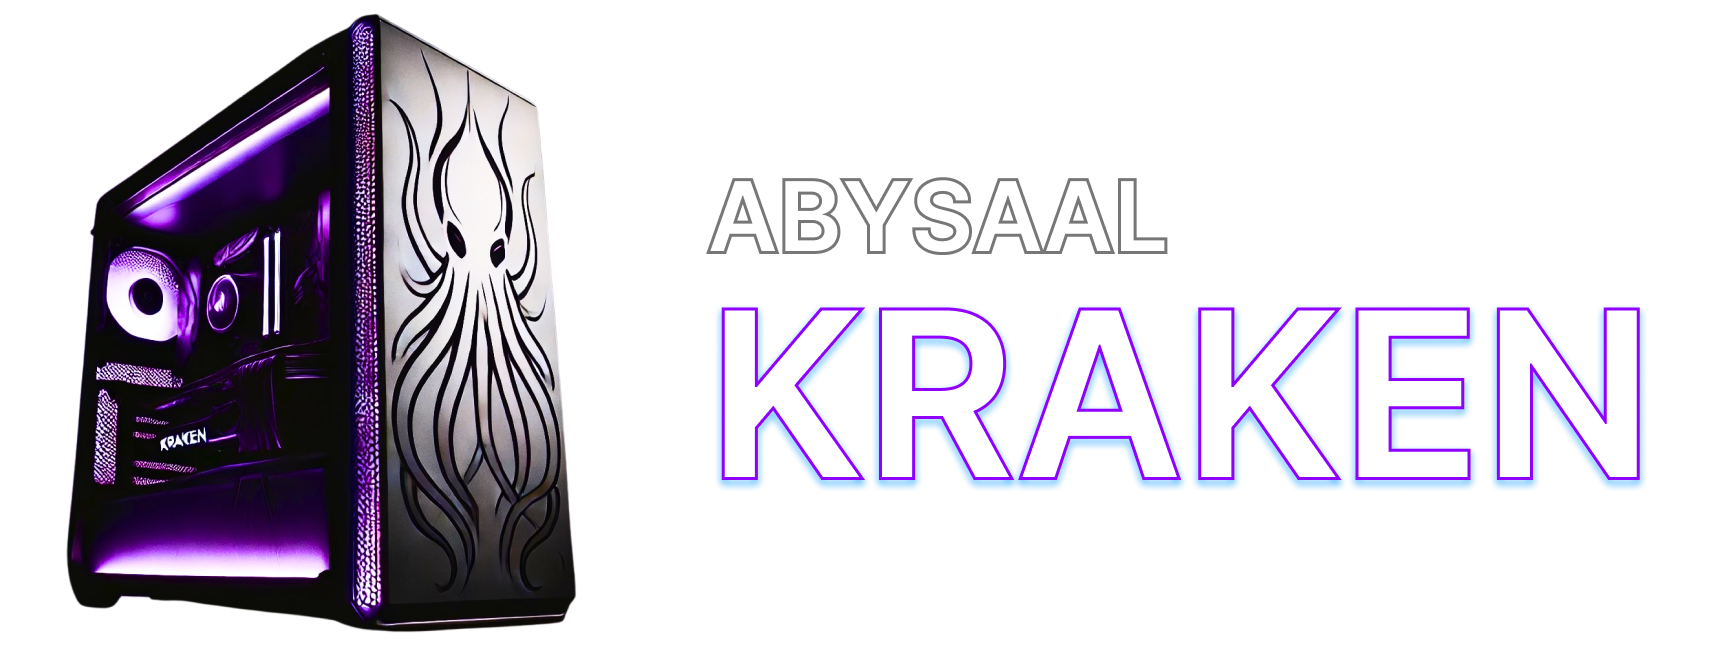
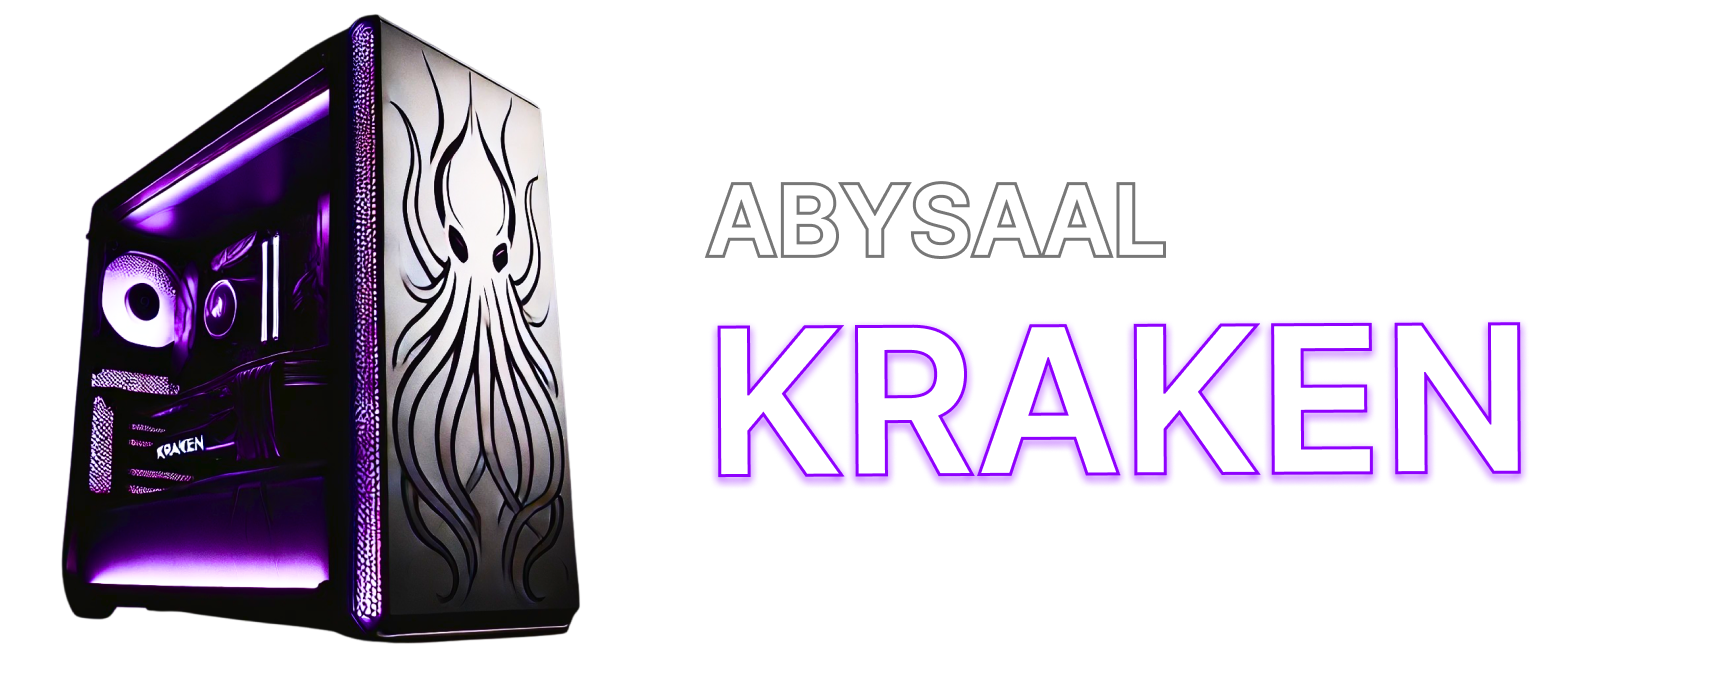
Pequenas mudanças não definitiva

diff --git a/octo/src/Componentes/CompCss/Login.css b/octo/src/Componentes/CompCss/Login.css
@@ -1,103 +1,58 @@
-.modal-overlay {
-  position: fixed;
-  top: 0;
-  left: 0;
-  right: 0;
-  bottom: 0;
-  background: rgba(0, 0, 0, 0.5);
-  display: flex;
-  align-items: center;
-  justify-content: center;
-   z-index: 9999;
-}
-
-.modal-content {
-  position: absolute;
-  background: rgba(110, 29, 174, 0.28);
-  color: white;
+.kraken-page {
+  background-color: #000;
+  color: #fff;
   padding: 20px;
-  border-radius: 30px;
-  height: 450px;
-  width: 410px;
-  box-shadow: 0 2px 10px rgba(0, 0, 0, 0.1);
-  display: flex;
-  flex-direction: column;
-  align-items: center;
+  font-family: Arial, sans-serif;
+}
+
+/* Banner */
+.banner {
   text-align: center;
-  z-index: 2;
+  color: #a260ff;
 }
 
-.close-button {
-  position: absolute;
-  top: 10px;  
-  right: 10px;  
-  background: none;
-  border: none;
-  font-size: 24px;
-  color: white;
-  cursor: pointer;
-}
-
-.logo {
-  max-width: 100%;
-  height: auto;
-  margin-bottom: 20px; /* Adicione um espaço abaixo da logo */
-}
-
-.modal-content form {
-  width: 100%; 
-}
-
-.modal-content form div {
-  margin: 10px 0; 
-}
-
-.login-button {
-  margin-top: 10px; 
-  padding: 10px 20px;
-  border: none;
-  background-color: rgba(0, 52, 101, 1);
-  color: white;
-  border-radius: 8px;
-  cursor: pointer;
-  width: 250px; 
-  height: 40px;
-}
-
-.form-group {
-  display: flex;
-  flex-direction: column;
-  align-items: flex-start;
-  margin-bottom: 15px;
-}
-
-.form-group label {
-  margin-bottom: 5px; 
-  font-weight: bold;
-}
-
-.form-group input {
+.banner img {
   width: 100%;
-  max-width: 390px; 
-  padding: 10px;
-  border: 1px solid #ccc;
-  border-radius: 5px;
+  max-width: 500px; /* Limite a largura para telas maiores */
+  height: auto;
+  margin-bottom: 20px;
 }
 
-.link-forgot, .link-register {
-  color: white;
-  text-decoration: none;
-  display: block; 
-  margin-top: 10px; 
-  text-align: left; 
+/* Seções de especificações */
+.specifications {
+  display: flex;
+  justify-content: space-around;
+  margin-top: 20px;
+  color: #a260ff;
 }
-.link-register {
-  color: white;
-  text-decoration: none;
-  display: block; 
-  margin-top: 10px; 
-  text-align: center; 
+
+.spec-column {
+  flex: 1;
+  margin: 10px;
+  min-width: 150px; /* Define um tamanho mínimo para boa responsividade */
 }
-.link-forgot:hover, .link-register:hover {
-  text-decoration: underline;
+
+/* Descrição */
+.description {
+  text-align: center;
+  margin-top: 20px;
+  padding: 0 10px;
+}
+
+.description h2 {
+  color: #a260ff;
+  margin-bottom: 10px;
+}
+
+/* Responsividade */
+@media (max-width: 768px) {
+  .specifications {
+    flex-direction: column;
+    align-items: center;
+  }
+
+  .spec-column {
+    width: 100%;
+    text-align: center;
+  }
 }

diff --git a/octo/src/Componentes/CompCss/HomeSlider.css b/octo/src/Componentes/CompCss/HomeSlider.css
@@ -21,7 +21,7 @@ body {
 /* Swiper */
 .swiper {
     width: 1500px; /* Define a largura para 1500 pixels */
-    height: 640px; /* Define a altura para 640 pixels */
+    height: auto; 
     overflow: hidden; /* Garante que não vaze conteúdo */
 }
   
@@ -38,28 +38,29 @@ body {
 }
 
 .swiper-slide img {
-    width: auto; /* Faz a imagem ocupar toda a largura do slide */
-    height: 100%; /* Faz a imagem ocupar toda a altura do slide */
+    width: auto;
+    height: auto;
     object-fit: cover; /* Cobre o slide sem distorcer */
 }
 
 /* Media Queries para responsividade */
-@media (max-width: 1500px) {
+@media (max-width: 768px) {
     .swiper {
-        width: 100%; /* Ajusta a largura para 100% em telas menores */
-        height: auto; /* Mantém a proporção da altura */
+        width: 100%; /* Largura máxima do contêiner */
+        height: auto; /* Altura automática para manter proporção */
     }
 }
 
+/* Ajuste para telas pequenas */
 @media (max-width: 768px) {
     .swiper-slide {
-        height: 150px; /* Reduz a altura do slide em telas menores */
+        height: 150px; /* Altura reduzida para telas pequenas */
     }
-    @media (max-width: 768px) {
-        .swiper-slide img {
-            width: 100%; /* Ajusta a largura para 100% em telas menores */
-            height: auto; /* Altura automática para manter a proporção */
-        }
-    }
+}
+
+/* Altura mínima para evitar que as imagens desapareçam */
+.swiper-slide img {
+    min-height: 200px;
+    width: 100%;
 }
 

diff --git a/octo/src/Componentes/HomeSlider.jsx b/octo/src/Componentes/HomeSlider.jsx
@@ -15,7 +15,6 @@ import { Navigation, Pagination, Mousewheel, Keyboard } from 'swiper/modules';
 import Banner1 from '../Imagens/Banner1.png';
 import Banner2 from '../Imagens/Banner2.png';
 import Banner3 from '../Imagens/Banner3.png';
-import Banner4 from '../Imagens/Banner4.png';
 
 const HomeSlider = () => {
   const navigate = useNavigate(); // Hook para navegação
@@ -35,13 +34,13 @@ const HomeSlider = () => {
           className="mySwiper"
         >
           <SwiperSlide onClick={() => handleSlideClick('/pc1')}>
-          <img src={Banner1} alt="Slide 1" style={{width: '100%', height: 'auto', maxHeight: '640px', objectFit: 'cover'}} />
+          <img src={Banner1} alt="Slide 1" style={{width: '100%', height: 'auto', maxHeight: 'auto', objectFit: 'cover'}} />
           </SwiperSlide>
           <SwiperSlide onClick={() => handleSlideClick('/pc12')}>
-          <img src={Banner2} alt="Slide 2" className="image-style" />
+          <img src={Banner2} alt="Slide 2"  style={{width: '100%', height: 'auto', maxHeight: 'auto', objectFit: 'cover'}} />
           </SwiperSlide>
           <SwiperSlide onClick={() => handleSlideClick('/pc12')} >
-          <img src={Banner3} alt="Slide 3" className="image-style" />
+          <img src={Banner3} alt="Slide 3"  style={{width: '100%', height: 'auto', maxHeight: 'auto', objectFit: 'cover'}} />
           </SwiperSlide>
         </Swiper>
       </div>

diff --git a/octo/src/Componentes/PAGINAS/PC1.jsx b/octo/src/Componentes/PAGINAS/PC1.jsx
@@ -1,9 +1,41 @@
-import React from "react";
+import React  from "react";
+import Kraken from '../../Imagens/Kraken.png';
+function PC1() {
+  return (
+    <div className="kraken-page">
+      
+      <section className="banner">
+        <img src={Kraken} alt="PC 1" />
+        <h1 className="title">ABYSAAL</h1>
+        <h1>KRAKEN</h1>
+        <p>Personalize e torne o seu próprio! O PC perfeito, ajustado ao seu estilo e desempenho.</p>
+      </section>
 
-export default function PC1() {
-    return (
-        <div className="Pc1">
-            <h1>pc 1</h1>
+      <section className="specifications">
+        <div className="spec-column">
+          <h2>Configuração Principal</h2>
+          <p>Processador: Intel Core i9 14900K 14ª geração</p>
+          <p>Placa de vídeo: NVIDIA GeForce RTX 4070</p>
+          <p>Memória: 32GB DDR5 5200Mhz</p>
         </div>
-    );
+        <div className="spec-column">
+          <h2>Armazenamento</h2>
+          <p>SSD 1TB NVME SN850</p>
+          <p>HDD 2TB</p>
+        </div>
+        <div className="spec-column">
+          <h2>Refrigeração</h2>
+          <p>Water Cooler NZXT Kraken Elite 360</p>
+        </div>
+      </section>
+
+      <section className="description">
+        <h2>PC GAMER KRAKEN</h2>
+        <p>Desencadeie o poder das profundezas com o Kraken...</p>
+      </section>
+
+    </div>
+  );
 }
+
+export default PC1;

diff --git a/octo/src/Componentes/CompCss/PC1.css b/octo/src/Componentes/CompCss/PC1.css
@@ -1,0 +1,42 @@
+.kraken-page {
+    background-color: #000;
+    color: #fff;
+  }
+  
+  .banner {
+    text-align: center;
+    color: #a260ff;
+  }
+.tilte{
+
+position: absolute;
+width: 1022.4px;
+height: 0px;
+left: 818.6px;
+top: 433.92px;
+font-family: 'Inter';
+font-style: normal;
+font-weight: 600;
+font-size: 96px;
+line-height: 0%;
+/* identical to box height, or 0px */
+letter-spacing: 0.01em;
+}
+  .specifications {
+    display: flex;
+    justify-content: space-around;
+    margin-top: 20px;
+    color: #a260ff;
+  }
+  
+  .spec-column {
+    flex: 1;
+    margin: 10px;
+  }
+  
+  .description {
+    text-align: center;
+    margin: 20px;
+  }
+  
+  

diff --git a/octo/src/Componentes/PAGINAS/MinhaConta.jsx b/octo/src/Componentes/PAGINAS/MinhaConta.jsx
@@ -3,7 +3,7 @@ import React from 'react'
 function MinhaConta() {
   return (
     <div>
-      
+      Pefil Cliente
     </div>
   )
 }

diff --git a/octo/src/Componentes/PAGINAS/PCSGamer.jsx b/octo/src/Componentes/PAGINAS/PCSGamer.jsx
@@ -7,4 +7,5 @@ export default function PCgamer(){
             <h1>Os pczin pronto vai ta aqui</h1>
         </div>
 
+
     )}
